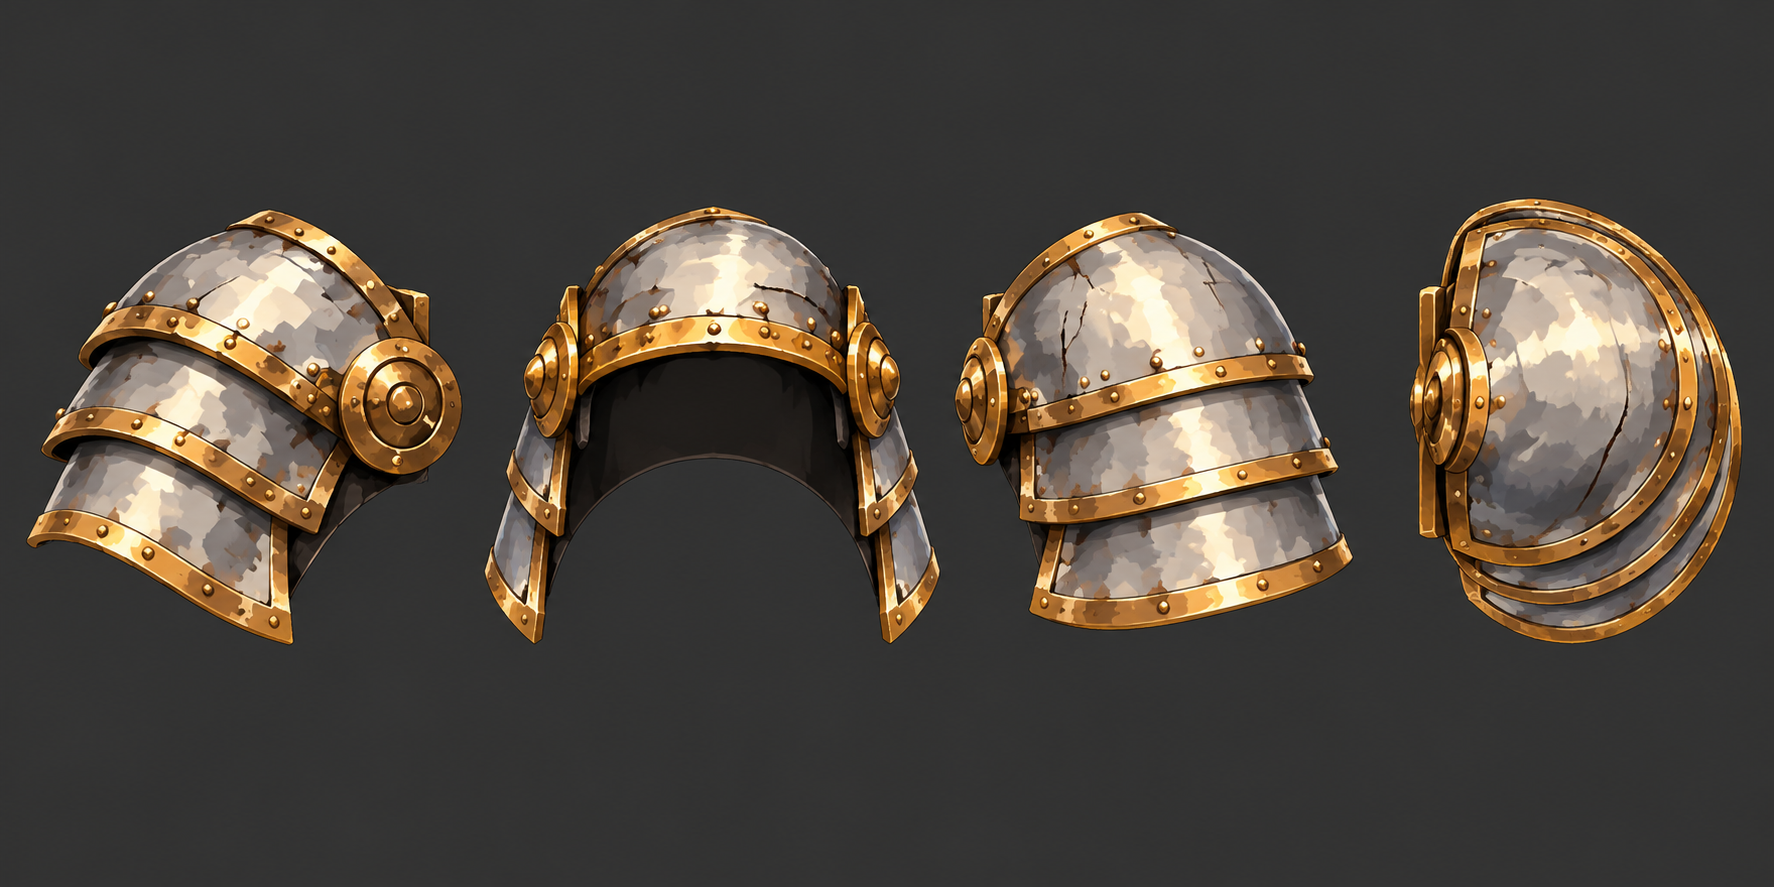
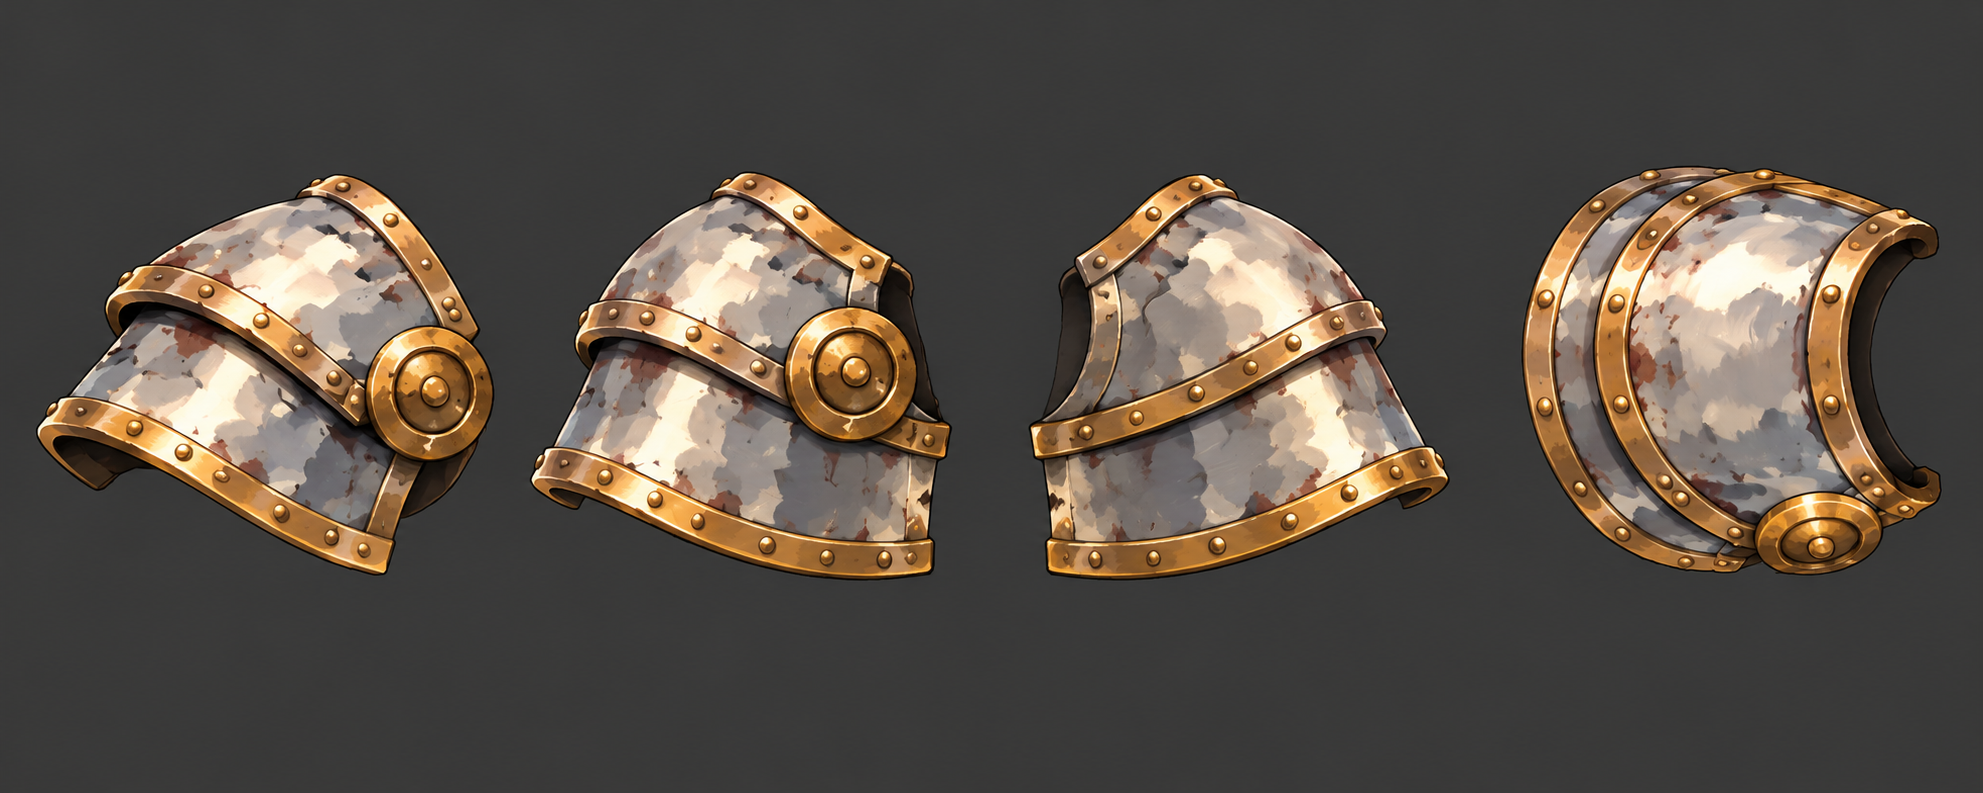
영웅 뷰어: 기사 어깨를 두 장 겹친 구조로(초상화) — 새 참고도에 실루엣 맞춤(바깥 측면 0.77·정면 0.87·위 0.88·뒤 0.84) · 위판 아랫단·아랫판 끝선 금 띠
Claude-Session: https://claude.ai/code/session_013Ys8dr7eBzpC28h3bn3fim

diff --git a/viewers/hero_viewer_v1.html b/viewers/hero_viewer_v1.html
@@ -1003,10 +1003,10 @@ const HELM_HP = [
   [-0.32, 0.2599, 0.0943, 0.1955, 0.1045, 0.8711],
   [-0.37, 0.2643, 0.0616, 0.2704, 0.1999, 0.7011]];
 const HELM_SY = 1.0107, HELM_HZ = 1.1584, HELM_VIS_Y = 0.02, HELM_CHIN_Y = -0.26, HELM_RONDEL = [0.0562, 0.0901];   // 맞춘 결과 IoU 정면 0.943 · 측면 0.873 · 후면 0.933 · 위 0.911
-// 기사 어깨 갑옷(HERO2) — 코덱스 참고도(refs/ui/초상화/knight_pauldron_4view.png) 실루엣에 맞춘 구조 모델(pfit3 — 바깥 측면 0.793 · 위 0.905 · 정면 0.478 — 정면 참고도는 다른 두 장과 안 맞아 가중치를 낮췄다).
-// 덮개: 타원 단면 일곱(y = top·cos(t)^c1 · 반지름 cr·sin(t)) · 판 k(셋): y0 − k·hL·0.85 부터 hL 아래로, 반지름 cr + 0.006 + k·dr → 아래 끝 +fl.
+// 기사 어깨 갑옷(HERO2) — 코덱스 참고도(refs/ui/초상화/knight_pauldron_4view.png) 실루엣에 맞춘 구조 모델(pfit3 — 바깥 측면 0.779 · 정면 0.867 · 위 0.871 · 뒤 0.836). 초상화처럼 판은 두 장(덮개 + 아랫판 하나, NL).
+// 덮개: 타원 단면 일곱(y = top·cos(t)^c1 · 반지름 cr·sin(t)) · 판 k(NL 장): y0 − k·hL·0.85 부터 hL 아래로, 반지름 cr + 0.006 + k·dr → 아래 끝 +fl.
 // 공용: 앞뒤 배율 HZ · 가로 배율 X · 기울기 T(z 1당 y — 앞이 높다) · 판이 감싸는 각 arc(π 배수, 바깥 중심) · 원판 [ry, rz, rr, ra(0 = 앞, π/2 = 바깥)].
-const PAULD = { oy: 0.06, top: 0.1955, c1: 1.1762, c2: 0.9669, c3: 0.9813, cr: 0.1877, y0: 0.0054, hL: 0.0922, dr: 0.0192, fl: 0.0245, T: -0.3172, HZ: 1.1786, X: 1.0152, arc: 1.4171, ry: 0.0274, rz: 0.0181, rr: 0.08, ra: 1.1172 };
+const PAULD = { NL: 1, oy: 0.06, top: 0.197, c1: 1.4871, cr: 0.18, y0: 0.0009, hL: 0.1473, dr: 0.0219, fl: 0.045, T: 0.25, HZ: 0.8827, X: 0.9469, arc: 1.6631, ry: 0.0312, rz: 0.0102, rr: 0.08, ra: 0.4906 };
 function hero2Knight(K) { return hero2Lcg(901001, () => {
   const { mk, S, M, D } = hero2Mats();
   const STEEL = mk(0x8f9bb0, 'm'), STEEL_L = mk(0xb4bccb, 'm'), STEEL_D = mk(0x5c6678, 'm'), GOLD = mk(0xc89a3e);
@@ -1091,7 +1091,7 @@ function hero2Knight(K) { return hero2Lcg(901001, () => {
     const keep = arm.children.filter(c => !c.isMesh);
     hero2Clear(arm);
     const g = new THREE.Group(); arm.add(g);
-    // 어깨: 볏 달린 둥근 덮개 + 계단처럼 내려가는 판 셋(금 테) + 앞 바깥 금 원판 — 위 PAULD 표
+    // 어깨: 볏 달린 둥근 덮개 + 그 아래 겹친 아랫판(금 테) + 앞 금 원판 — 위 PAULD 표
     const pd = new THREE.Group(); pd.name = 'pauld'; pd.position.set(sign * 0.03, PAULD.oy, 0); g.add(pd);
     const PA = PAULD, ocA = sign * Math.PI / 2, arcA = Math.PI * PA.arc;
     const ring = (y, R, ph, off) => { const rr = R + off, z = -rr * Math.cos(ph) * PA.HZ; return [rr * Math.sin(ph) * PA.X, y + PA.T * z, z]; };
@@ -1108,11 +1108,13 @@ function hero2Knight(K) { return hero2Lcg(901001, () => {
     h2(pd, sheet(capR, -Math.PI, Math.PI, 16, 0), STEEL_L);
     h2(pd, sheet(capR.slice(0, 6), -0.07, 0.07, 1, 0.01), GOLD);                         // 볏(앞→뒤 금 띠)
     h2(pd, sheet(capR.slice(0, 6), Math.PI - 0.07, Math.PI + 0.07, 1, 0.01), GOLD);
-    for (let k = 0; k < 3; k++) {
+    h2(pd, sheet([[PA.top * 0.12, PA.cr * 0.985], [-0.005, PA.cr * 1.0]], -Math.PI, Math.PI, 16, 0.01), GOLD_DS);   // 위판 아랫단 금 띠
+    for (let k = 0; k < PA.NL; k++) {
       const yt = PA.y0 - k * PA.hL * 0.85, r0 = PA.cr + 0.006 + k * PA.dr, rs = [[yt, r0], [yt - PA.hL, r0 + PA.fl]];
       const lg = new THREE.Group(); pd.add(lg);
       lg.add(new THREE.Mesh(sheet(rs, ocA - arcA / 2, ocA + arcA / 2, 12, 0), k % 2 ? STEEL_DS : STEEL_LDS));
-      lg.add(new THREE.Mesh(sheet([[yt - PA.hL + 0.02, r0 + PA.fl * 0.8], [yt - PA.hL, r0 + PA.fl]], ocA - arcA / 2, ocA + arcA / 2, 12, 0.006), GOLD_DS));   // 판 아래 금 테
+      lg.add(new THREE.Mesh(sheet([[yt - PA.hL + 0.03, r0 + PA.fl * 0.8], [yt - PA.hL, r0 + PA.fl]], ocA - arcA / 2, ocA + arcA / 2, 12, 0.006), GOLD_DS));   // 판 아래 금 테
+      for (const e of [ocA - arcA / 2, ocA + arcA / 2 - 0.12]) lg.add(new THREE.Mesh(sheet(rs, e, e + 0.12, 1, 0.006), GOLD_DS));   // 판 앞뒤 끝 세로 금 띠
     }
     { const R0 = PA.cr, ra = PA.ra, rn = new THREE.Vector3(sign * Math.sin(ra), 0, -Math.cos(ra));
       const cx = sign * R0 * Math.sin(ra) * PA.X, cz = -R0 * Math.cos(ra) * PA.HZ + PA.rz, cy = PA.ry;
